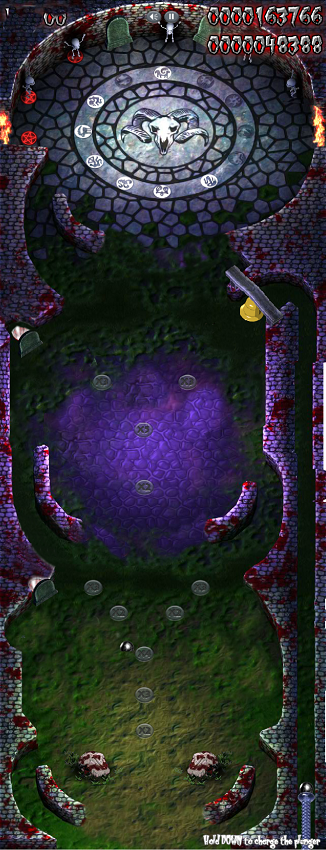
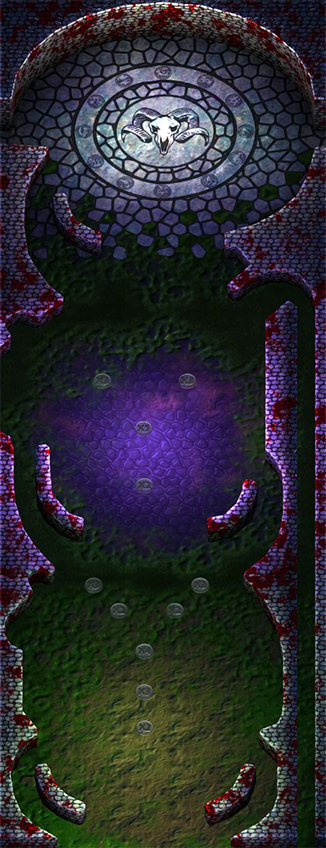
Add Brain Texture

diff --git a/ModuleSceneIntro.cpp b/ModuleSceneIntro.cpp
@@ -35,6 +35,10 @@ bool ModuleSceneIntro::Start()
 	//ADD BALL
 	circles.add(App->physics->CreateCircle(305, 750, 6, 1, 0, ball));
 
+	circles.add(App->physics->CreateCircle(0, 390, 35, 0, 1, NULL, HIT_OBJECT));
+	brain = new Brain(this, 100, circles.getLast()->data);
+	circles.getLast()->data->listener = this;
+
 	//ADD GRAVES
 	circles.add(App->physics->CreateCircle(83, 355, 15, 0, 1, NULL, GRAVES));
 	headstone.add(new HeadStone(this, 10, 100, "4", circles.getLast()->data));
@@ -391,7 +395,7 @@ update_status ModuleSceneIntro::Update()
 		b2Vec2 pos = it->data->bonusBody->body->GetPosition();
 
 		if (it->data->bonusBody->active == true) {
-			App->renderer->Blit(it->data->texture, METERS_TO_PIXELS(pos.x - it->data->bonusBody->width), METERS_TO_PIXELS(pos.y - it->data->bonusBody->height - 5));
+			App->renderer->Blit(it->data->texture, METERS_TO_PIXELS(pos.x - it->data->bonusBody->width), METERS_TO_PIXELS(pos.y - it->data->bonusBody->height));
 		}
 		
 	}
@@ -405,7 +409,7 @@ update_status ModuleSceneIntro::Update()
 		if (it->data->bonusBody->active == true ) {
 			it->data->currentTime = SDL_GetTicks();
 
-			if (it->data->bonusBody->lastTime + 10000 < it->data->currentTime)
+			if (it->data->bonusBody->lastTime + BONUS_TIME < it->data->currentTime)
 			{
 			
 			it->data->bonusBody->lastTime = it->data->currentTime;
@@ -549,5 +553,13 @@ Bonus::Bonus(ModuleSceneIntro * scene, const char * bonusNumber, PhysBody * bonu
 	currentTime = SDL_GetTicks();
 	bonusBody->lastTime = currentTime;
 	bonusBody->bonusValue = atoi(bonusNumber);
+
+}
+
+Brain::Brain(ModuleSceneIntro * scene, uint points, PhysBody * brainBody):brainBody(brainBody)
+{
+	brainBody->texture = scene->App->textures->Load("pinball/Sprites/brain.png");
+	brainBody->points = points;
+	brainBody->width += brainBody->width;
 
 }

diff --git a/ModulePlayer.cpp b/ModulePlayer.cpp
@@ -21,9 +21,12 @@ ModulePlayer::~ModulePlayer()
 bool ModulePlayer::Start()
 {
 	LOG("Loading player");
-	bouncer = App->physics->CreateRectangle(300, 750, 20, 20, 1);
+	bounc = App->textures->Load("pinball/Sprites/Bumper.png");
+
+
+	bouncer = App->physics->CreateRectangle(305, 840, 18, 18, 1, bounc);
 	bouncerWheel = App->physics->CreateRectangle(305, 840, 10, 0, 0);
-	App->physics->CreateLineJoint(bouncer->body, bouncerWheel->body, p2Point<float>(0, 0), p2Point<float>(0, 0), 20.0f, 1.0f);
+	App->physics->CreateLineJoint(bouncer->body, bouncerWheel->body, p2Point<float>(0, 0), p2Point<float>(0, 0), 30.0f, 0.0f);
 	score = 0;
 	return true;
 }
@@ -39,16 +42,20 @@ bool ModulePlayer::CleanUp()
 // Update: draw background
 update_status ModulePlayer::Update()
 {
-	static float powerPush = 0.0f;
+	static float powerPush = 0.0f;//Update don't modifique this
 	if (App->input->GetKey(SDL_SCANCODE_DOWN) == KEY_DOWN || App->input->GetKey(SDL_SCANCODE_DOWN) == KEY_REPEAT)
 	{
 		powerPush += 100.0f;
-
 		bouncer->body->ApplyForceToCenter(b2Vec2(0, powerPush), true);
 	}
 	else
-
 		powerPush = 0.0f;
+
+	b2Vec2 pos = bouncer->body->GetPosition();
+	App->renderer->Blit(bouncer->texture, METERS_TO_PIXELS(pos.x - bouncer->width), METERS_TO_PIXELS(pos.y - bouncer->height));
+
+
+
 
 	return UPDATE_CONTINUE;
 }

diff --git a/ModuleSceneIntro.h b/ModuleSceneIntro.h
@@ -5,13 +5,18 @@
 #include "p2SString.h"
 #include "Globals.h"
 #include "p2DynArray.h"
-
+#define BONUS_TIME 10000
 class PhysBody;
 class ModuleSceneIntro;
+struct Brain {
+	Brain(ModuleSceneIntro* scene, uint points, PhysBody* lapidBody);
+	PhysBody* brainBody;
 
-struct HeadStone {
+};
+struct HeadStone 
+{
 
-	HeadStone(ModuleSceneIntro* scene, uint life,uint ac, const char* lapidnumber, PhysBody* lapidBody);
+	HeadStone(ModuleSceneIntro* scene, uint points,uint ac, const char* lapidnumber, PhysBody* lapidBody);
 
 	SDL_Texture* texture[2];
 	PhysBody* stoneBody;
@@ -64,8 +69,8 @@ public:
 	PhysBody* up_left_flip;
 	PhysBody* up_right_flip;
 
+	Brain* brain;
 	p2List<HeadStone*> headstone;
-
 	p2List<Bonus*> listBonus;
 	//Score functions
 	uint ToScore(uint score);

diff --git a/ModulePlayer.h b/ModulePlayer.h
@@ -2,7 +2,7 @@
 #include "Module.h"
 #include "Globals.h"
 #include "p2Point.h"
-
+struct SDL_Texture;
 class ModulePlayer : public Module
 {
 public:
@@ -15,6 +15,7 @@ public:
 
 public:
 
+	SDL_Texture* bounc;
 
 	PhysBody* bouncer;
 	PhysBody* bouncerWheel;

diff --git a/Globals.h b/Globals.h
@@ -22,6 +22,7 @@ enum update_status
 enum bodyType
 {
 	FLIP,
+	HIT_OBJECT,
 	GRAVES,
 	BONUS,
 	CHAIN,
